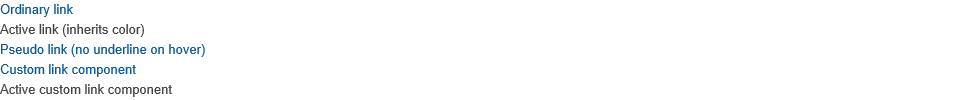
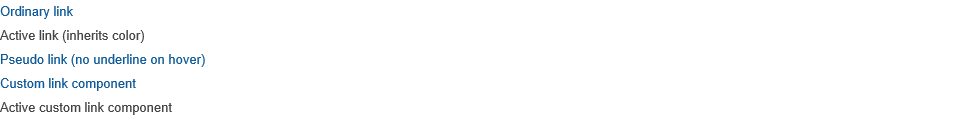
RG-1159 UI Language: link
Former-commit-id: a31ffcc17f44d16bacb494651cc1a6d72372dde8

diff --git a/components/link/link.js b/components/link/link.js
@@ -14,20 +14,45 @@ import styles from './link.css';
  * @example-file ./link.examples.html
  */
 
+function makeWrapText(innerClassName) {
+  const WrapText = ({className, children}) => {
+    const classes = classnames(styles.inner, className, innerClassName);
+    return <span className={classes}>{children}</span>;
+  };
+
+  WrapText.propTypes = {
+    className: PropTypes.string,
+    children: PropTypes.node
+  };
+
+  return WrapText;
+}
+
 export function linkHOC(ComposedComponent) {
   const isTag = typeof ComposedComponent === 'string';
 
   return class Link extends Component {
     static propTypes = {
       className: PropTypes.string,
+      innerClassName: PropTypes.string,
       active: PropTypes.bool,
       inherit: PropTypes.bool,
       pseudo: PropTypes.bool,
-      hover: PropTypes.bool
+      hover: PropTypes.bool,
+      children: PropTypes.oneOfType([PropTypes.node, PropTypes.func])
     }
 
     render() {
-      const {active, inherit, pseudo, hover, className, ...props} = this.props;
+      const {
+        active,
+        inherit,
+        pseudo,
+        hover,
+        className,
+        innerClassName,
+        children,
+        ...props
+      } = this.props;
       const classes = classnames(styles.link, className, {
         [styles.active]: active,
         [styles.inherit]: inherit,
@@ -39,12 +64,29 @@ export function linkHOC(ComposedComponent) {
         props.activeClassName = styles.active;
       }
 
+      if (pseudo) {
+        return (
+          <span
+            {...props}
+            className={classes}
+            data-test="ring-link"
+          >{children}</span>
+        );
+      }
+
+      const WrapText = makeWrapText(innerClassName);
+
       return (
         <ComposedComponent
           {...props}
           className={classes}
           data-test="ring-link"
-        />
+        >
+          {typeof children === 'function'
+            ? children(WrapText)
+            : <WrapText>{children}</WrapText>
+          }
+        </ComposedComponent>
       );
     }
   };

diff --git a/components/list/list.test.js b/components/list/list.test.js
@@ -666,7 +666,7 @@ describe('List', () => {
       }).instance();
 
       getFirstListItem(instance).should.match('[data-test=ring-link]');
-      getFirstListItem(instance).innerHTML.should.equal('Hello!');
+      getFirstListItem(instance).firstChild.innerHTML.should.equal('Hello!');
       getFirstListItem(instance).tagName.toLowerCase().should.equal('a');
       getFirstListItem(instance).getAttribute('href').should.equal('http://www.jetbrains.com');
     });
@@ -679,7 +679,7 @@ describe('List', () => {
       }).instance();
 
       getFirstListItem(instance).should.match('[data-test=ring-link]');
-      getFirstListItem(instance).innerHTML.should.equal('Hello!');
+      getFirstListItem(instance).firstChild.innerHTML.should.equal('Hello!');
       getFirstListItem(instance).tagName.toLowerCase().should.equal('a');
       getFirstListItem(instance).getAttribute('href').should.equal('http://www.jetbrains.com');
     });
@@ -713,7 +713,7 @@ describe('List', () => {
 
       getFirstListItem(instance).should.match(`[data-test=ring-link].${linkStyles.pseudo}`);
       getFirstListItem(instance).innerHTML.should.equal('Hello!');
-      getFirstListItem(instance).tagName.toLowerCase().should.equal('a');
+      getFirstListItem(instance).tagName.toLowerCase().should.equal('span');
     });
 
     it('should not render icon if not provided', () => {

diff --git a/components/link/link.test.js b/components/link/link.test.js
@@ -4,6 +4,8 @@ import {shallow, mount} from 'enzyme';
 import Link, {linkHOC} from './link';
 import styles from './link.css';
 
+function noop() {}
+
 describe('Link', () => {
   const shallowLink = props => shallow(<Link {...props}/>);
   const mountLink = props => mount(<Link {...props}/>);
@@ -38,7 +40,7 @@ describe('Link', () => {
     it('should pass activeClassName to wrapped component', () => {
       const CustomComponent = () => <span/>;
       const CustomLink = linkHOC(CustomComponent);
-      mount(<CustomLink/>).should.containMatchingElement(
+      mount(<CustomLink>{noop}</CustomLink>).should.containMatchingElement(
         <CustomComponent activeClassName={styles.active}/>
       );
     });
@@ -47,7 +49,7 @@ describe('Link', () => {
       const CustomComponent = () => <span/>;
       const CustomLink = linkHOC(CustomComponent);
 
-      mount(<CustomLink custom="test"/>).should.containMatchingElement(
+      mount(<CustomLink custom="test">{noop}</CustomLink>).should.containMatchingElement(
         <CustomComponent custom="test"/>
       );
     });

diff --git a/components/header/services-link.js b/components/header/services-link.js
@@ -25,16 +25,19 @@ export default class ServicesLink extends PureComponent {
         href={service.homeUrl}
         {...props}
       >
-        {service.iconUrl && (
-          <span
-            className={styles.itemLogo}
-            style={{backgroundImage: `url(${service.iconUrl})`}}
-          />
-        )}
-        {service.iconUrl && (
-          <span className={styles.itemText}>{service.name}</span>
-        )}
-        {!service.iconUrl && service.name}
+        {WrapText => (service.iconUrl
+          ? [
+            <span
+              key="icon"
+              className={styles.itemLogo}
+              style={{backgroundImage: `url(${service.iconUrl})`}}
+            />,
+            <div key="text">
+              <WrapText>{service.name}</WrapText>
+            </div>
+          ]
+          : <WrapText>{service.name}</WrapText>)
+        }
       </Link>
     );
   }

diff --git a/components/link/link.examples.html b/components/link/link.examples.html
@@ -3,6 +3,15 @@
     <div id="link"></div>
   </file>
 
+  <file type="css">
+    :global(.container) {
+      line-height: 24px;
+      display: flex;
+      flex-direction: column;
+      align-items: flex-start;
+    }
+  </file>
+
   <file type="js">
     import React, {Component} from 'react';
     import {render} from 'react-dom';
@@ -28,7 +37,7 @@
     class LinkDemo extends Component {
       render() {
         return (
-         <div style={{display: 'flex', flexDirection: 'column'}}>
+         <div className="container">
            <Link href="#hash">Ordinary link</Link>
            <Link href="#hash" active>Active link (inherits color)</Link>
            <Link href="#hash" pseudo>Pseudo link (no underline on hover)</Link>

diff --git a/components/header/header.examples.html b/components/header/header.examples.html
@@ -45,9 +45,9 @@
 
     const renderHeaderDemo = () => (
       <Header>
-        <Link href="/">
+        <a href="/">
           <Logo glyph={jetbrainsLogo} size={Logo.Size.Size96} />
-        </Link>
+        </a>
         <Link active href="#">Users</Link>
         <Link href="#">Groups</Link>
         <Link href="#">Spaces</Link>
@@ -139,9 +139,9 @@
 
     const renderHeaderDemo = () => (
       <Header className="header">
-        <Link href="/" >
+        <a href="/" >
           <Logo glyph={jetbrainsLogo} size={Logo.Size.Size32} />
-        </Link>
+        </a>
         <Link active href="#">Users</Link>
         <Link href="#">Groups</Link>
         <Link href="#">Spaces</Link>

diff --git a/packages/ring-ui-docs/components/header.js b/packages/ring-ui-docs/components/header.js
@@ -9,7 +9,6 @@ import Header, {
   SmartProfile,
   SmartServices
 } from 'ring-ui/components/header/header';
-import Link from 'ring-ui/components/link/link';
 
 import hubConfig from './hub-config';
 import Item from './item';
@@ -25,12 +24,12 @@ auth.init().then(restoreLocation => {
 
 const SiteHeader = ({docsItems, ...restProps}) => (
   <Header>
-    <Link href="/" >
+    <a href="/" >
       <Logo
         glyph={hubLogo}
         size={Logo.Size.Size48}
       />
-    </Link>
+    </a>
     <span>{'Ring UI library '}<Version {...restProps}/></span>
     {docsItems.map(item => (
       <Item

diff --git a/packages/ring-ui-generator/app/templates/src/components/app/app-root.js b/packages/ring-ui-generator/app/templates/src/components/app/app-root.js
@@ -1,5 +1,4 @@
 import React, {Component} from 'react';
-import Link from 'ring-ui/components/link/link';
 import Header, {
   Logo,
   Tray,
@@ -25,12 +24,12 @@ export default class AppRoot extends Component {
     return (
       <div>
         <Header>
-          <Link href="/">
+          <a href="/">
             <Logo
               glyph={jetbrainsLogo}
               size={Logo.Size.Size96}
             />
-          </Link>
+          </a>
           <Tray>
             <SmartServices auth={this.auth}/>
             <SmartProfile auth={this.auth}/>

diff --git a/components/form-ng/form-ng.examples.html b/components/form-ng/form-ng.examples.html
@@ -54,10 +54,10 @@
   <file type="js">
     import 'angular';
 
-    import 'ring-ui/components/input/input.scss';
+    import 'ring-ui/components/input-legacy/input-legacy.scss';
     import 'ring-ui/components/form/form.scss';
     import 'ring-ui/components/panel/panel.scss';
-    import 'ring-ui/components/button/button.scss';
+    import 'ring-ui/components/button-legacy/button-legacy.scss';
     import 'ring-ui/components/input-size/input-size.scss';
 
     import ButtonNg from 'ring-ui/components/button-ng/button-ng';

diff --git a/components/link/link.css b/components/link/link.css
@@ -17,16 +17,33 @@
     color: link-hover-color;
   }
 
-  &:hover {
-    text-decoration: underline;
-  }
-
-  &.pseudo {
-    text-decoration: none;
+  &:hover .inner::after {
+    opacity: 0.5;
   }
 
   &.active {
     color: inherit;
+  }
+}
+
+.inner {
+  position: relative;
+
+  display: inline-block;
+
+  line-height: 1.2;
+
+  &::after {
+    position: absolute;
+    top: 0;
+    right: 0;
+    bottom: -1px;
+    left: 0;
+
+    content: '';
+
+    opacity: 0;
+    border-bottom: 1px solid;
   }
 }
 

diff --git a/components/caret/caret.js b/components/caret/caret.js
@@ -18,7 +18,7 @@ import {getRect} from '../global/dom';
       </div>
     </file>
     <file name="index.js">
-      import 'ring-ui/components/input/input.scss';
+      import 'ring-ui/components/input-legacy/input-legacy.scss';
       import 'ring-ui/components/link/link.scss';
       import Caret from 'ring-ui/components/caret/caret';
 

diff --git a/components/header/services.css b/components/header/services.css
@@ -46,12 +46,6 @@
   }
 }
 
-/* New line inside inline content */
-.itemText::before {
-  content: '\A';
-  white-space: pre;
-}
-
 .itemLogo {
   display: inline-block;
 
